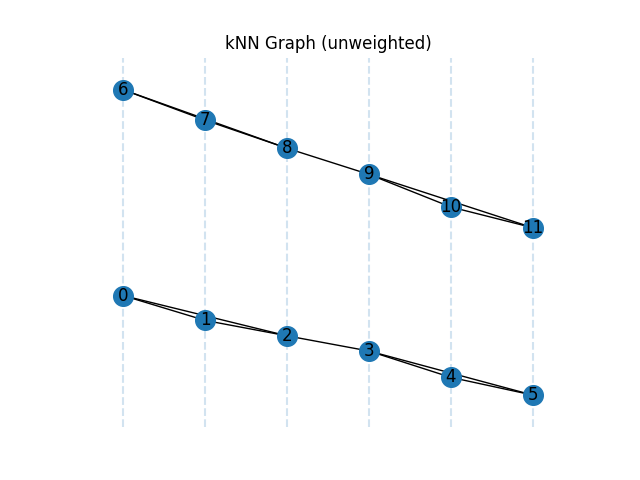
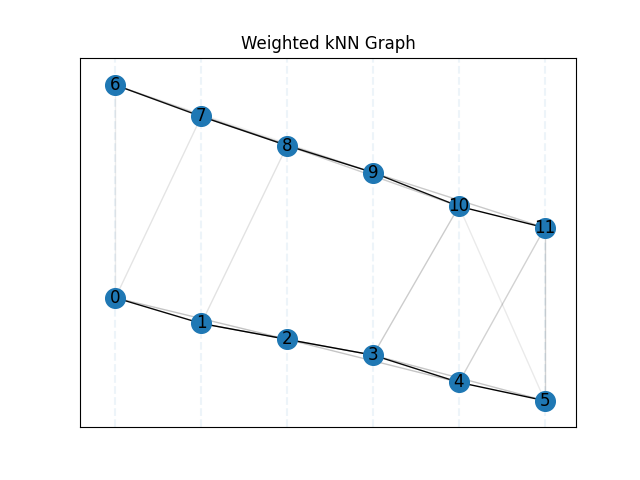
Add plots

diff --git a/tracking.py b/tracking.py
@@ -47,7 +47,7 @@ def plot_toytracks(x, track1, track1_labels, track2, track2_labels, sigma, intse
     plt.xlim(-0.1, 1.1)
     plt.title(f'Two track plot with intersection={intsec}. Noise standev.={sigma}')
     plt.grid(axis='x')
-    #plt.savefig('plots/Toytracks.png')
+    plt.savefig('plots/Toytracks.png')
     plt.show()
     
     
@@ -64,7 +64,7 @@ def plot_matrix_heat_map(sim_matrix, matrix_type):
     plt.title(f'{matrix_type} Heat map')
     plt.colorbar()
     plt.xlabel('Hit index')
-    #plt.savefig(f'plots/{matrix_type}_heat_map.png')
+    plt.savefig(f'plots/{matrix_type}_heat_map.png')
     plt.show()
     
     
@@ -99,7 +99,7 @@ def KNN(x, hit_coords, n, t1l, t2l):
         plt.axvline(detector_x,linestyle='--',alpha=0.08)
     
     plt.title('Weighted kNN Graph')
-    #plt.savefig('plots/kNN_Graph.png')
+    plt.savefig('plots/kNN_Graph.png')
     plt.show()
     
     return knn_matrix
@@ -122,4 +122,4 @@ plot_matrix_heat_map(RBF_matrix, 'Radial Basis Function')
 
 KNN_matrix = KNN(x, hit_coords, nearneighb_n, track1_labels, track2_labels)
 
-plot_matrix_heat_map(KNN_matrix, f'{nearneighb_n} NearestNeighbour')
+plot_matrix_heat_map(KNN_matrix, f'{nearneighb_n}_NearestNeighbours')